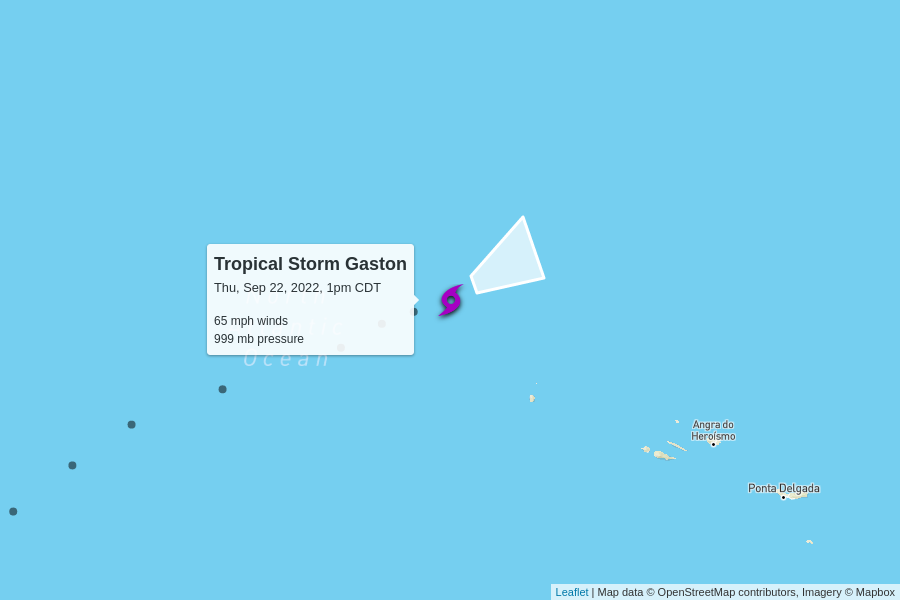
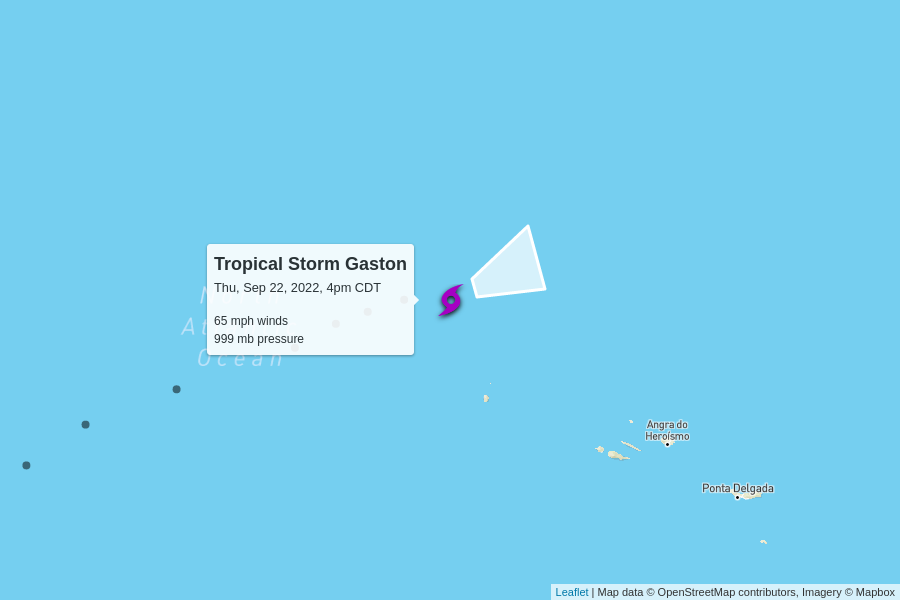
automatic update

diff --git a/docs/index.html b/docs/index.html
@@ -100,7 +100,7 @@
         <td colspan="6" class="storm category-4" >
           <h2>
             Hurricane Fiona - Category 4
-            <p class="updated">last updated <span data-time>2022-09-22T18:00:00.000Z</span></p>
+            <p class="updated">last updated <span data-time>2022-09-22T21:00:00.000Z</span></p>
           </h2>
         </td>
       </tr>
@@ -118,7 +118,7 @@
         <td>130 mph</td>
         <td>936 mb</td>
         <td>
-          16 mph to the north-northeast
+          20 mph to the north-northeast
           <br/>
           <span style="display: inline-block; font-size: 1.5em; transform: rotate(25deg);">↑</span>
         </td>
@@ -144,7 +144,7 @@
         <td colspan="6" class="storm category-0" >
           <h2>
             Tropical Storm Gaston
-            <p class="updated">last updated <span data-time>2022-09-22T18:00:00.000Z</span></p>
+            <p class="updated">last updated <span data-time>2022-09-22T21:00:00.000Z</span></p>
           </h2>
         </td>
       </tr>
@@ -162,9 +162,9 @@
         <td>65 mph</td>
         <td>999 mb</td>
         <td>
-          21 mph to the east-northeast
+          17 mph to the east-northeast
           <br/>
-          <span style="display: inline-block; font-size: 1.5em; transform: rotate(65deg);">↑</span>
+          <span style="display: inline-block; font-size: 1.5em; transform: rotate(70deg);">↑</span>
         </td>
         <td><a href="https://raw.githubusercontent.com/mgwalker/atlantic-hurricanes/main/data/csv/AL082022.csv">AL082022.csv</a></td>
         <td><a href="https://www.nhc.noaa.gov/archive/2022/GASTON.shtml?">NHC advisories</a></td>
